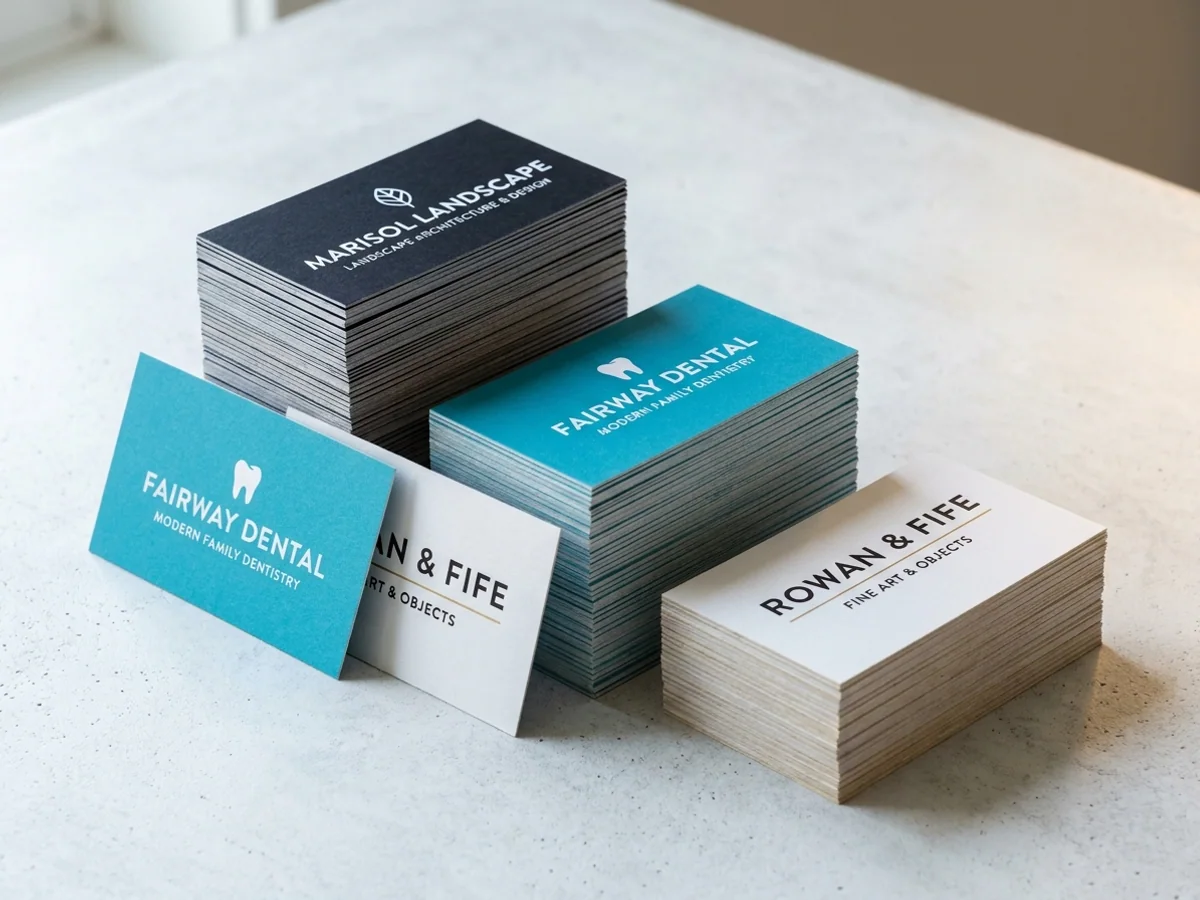
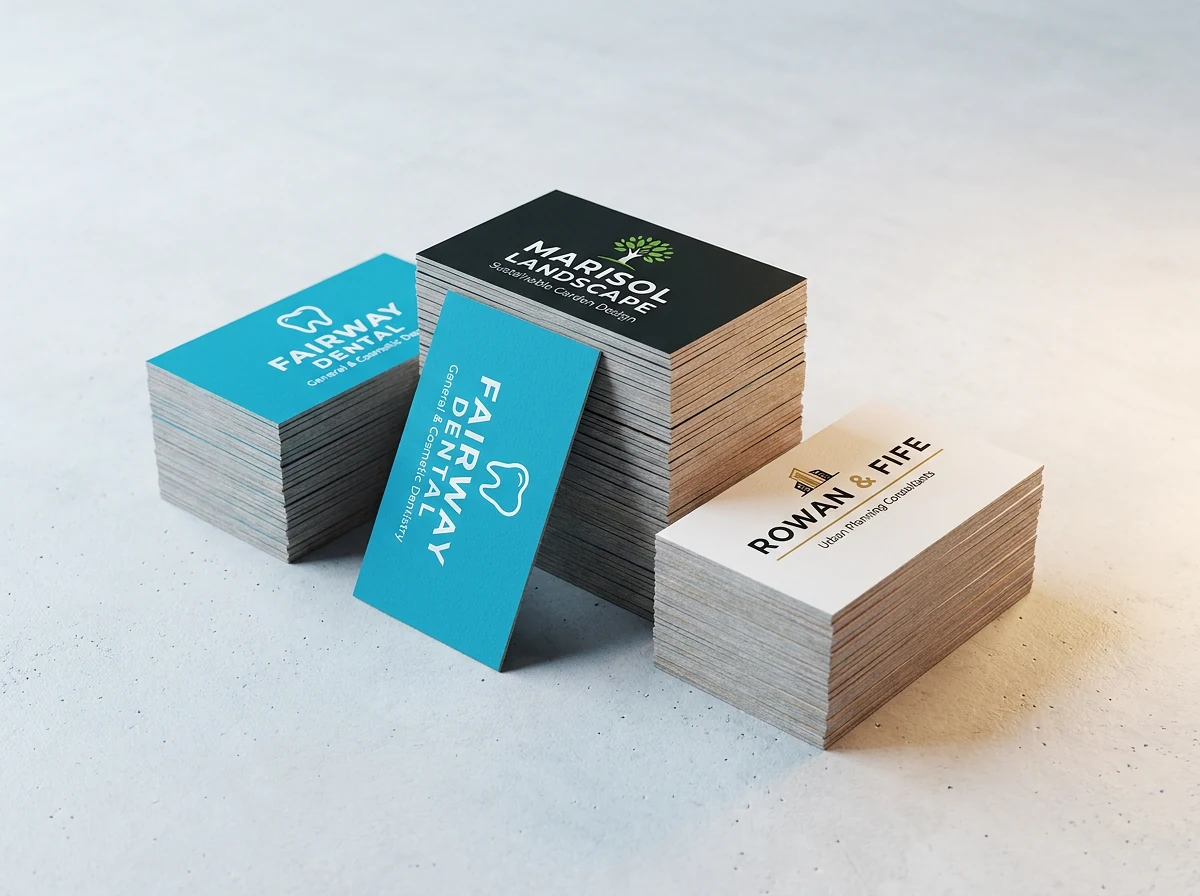
Fix blurry, over-zoomed product photography
The business-card photo on the service pages read as heavily zoomed and soft.
Two separate causes.

Composition: the previous shoot framed each subject tight, filling the frame.
The hero panel is a near-square crop of a 4:3 photo, so it cut roughly 12% off
each side of an already-tight subject and cropped further into it. Re-shot all
five product photos with a deliberately loose composition - subject centred at
about 60% of the frame with real empty surface on all four sides - so a centre
crop still contains the whole subject with room around it.

Resolution: the export was upscaling. hero-card-fan was resized 1.33x above its
source and proof-desk 1.40x, so the browser was then asked to scale an already
soft asset again. Everything now exports at native resolution with
withoutEnlargement, lanczos3, a light unsharp mask, and quality 88. The model
caps at 1200px regardless of the 2K/4K image_size flag, so native is the ceiling.

Geometry: the hero panels were tall enough to force a near-square crop of a
landscape frame, which is what produced the zoom and pushed the required device
width past the source. Hero heights are reduced (600 -> 520 homepage, 540 -> 500
service pages) and the panels capped (max-w 720 / 680) so the panel stays close
to the photograph's native 4:3 at every viewport, and `sizes` now reflects the
cap. Measured at DPR 2 on a 1440 viewport this takes the browser-side scale from
1.21x to 1.12x, on top of the sharpening.
[…]

diff --git a/app/(public)/page.tsx b/app/(public)/page.tsx
@@ -114,7 +114,7 @@ export default async function HomePage() {
         {/* z-20 keeps the bar above the bleed photo, which is anchored to the section's top edge */}
         <div className="reg-bar relative z-20" />
 
-        <div className="container-tight flex items-center px-4 pb-4 pt-14 sm:px-6 lg:min-h-[600px] lg:px-8 lg:py-16">
+        <div className="container-tight flex items-center px-4 pb-4 pt-14 sm:px-6 lg:min-h-[520px] lg:px-8 lg:py-16">
           <div className="lg:max-w-[52%]">
             <Reveal y={16}>
               <h1 className="display-tight text-[2.75rem] text-kc-dark sm:text-6xl lg:text-[3.5rem] xl:text-[4.25rem]">
@@ -145,14 +145,17 @@ export default async function HomePage() {
         </div>
 
         {/* One <Image>: an inline block on mobile, a full-height bleed panel from lg up. */}
-        <div className="px-4 pb-16 pt-10 sm:px-6 lg:absolute lg:bottom-0 lg:right-0 lg:top-[3px] lg:w-[46%] lg:p-0">
+        {/* The panel is capped and the hero kept short so this stays near the photograph's native 4:3.
+            A taller panel crops a landscape frame into a near-square, which reads as a zoom and
+            forces the browser to upscale a 1200px source. */}
+        <div className="px-4 pb-16 pt-10 sm:px-6 lg:absolute lg:bottom-0 lg:right-0 lg:top-[3px] lg:w-[46%] lg:max-w-[720px] lg:p-0">
           <div className="edge relative aspect-[4/3] w-full overflow-hidden lg:aspect-auto lg:h-full lg:rounded-none">
             <Image
               src="/images/print/hero-card-fan.webp"
               alt="A fanned spread of printed business cards in cyan, magenta, gold, and black showing their layered cut edges"
               fill
               priority
-              sizes="(min-width: 1024px) 46vw, 100vw"
+              sizes="(min-width: 1600px) 720px, (min-width: 1024px) 46vw, 100vw"
               className="object-cover"
             />
           </div>

diff --git a/components/sections/ServicePageContent.tsx b/components/sections/ServicePageContent.tsx
@@ -58,7 +58,7 @@ export function ServicePageContent({
       <section className="relative bg-kc-bg">
         <div className="reg-bar relative z-20" />
 
-        <div className="container-tight flex items-center px-4 pb-4 pt-14 sm:px-6 lg:min-h-[540px] lg:px-8 lg:py-16">
+        <div className="container-tight flex items-center px-4 pb-4 pt-14 sm:px-6 lg:min-h-[500px] lg:px-8 lg:py-16">
           <div className="lg:max-w-[52%]">
             <Reveal y={16}>
               <h1 className="display-tight text-[2.75rem] text-kc-dark sm:text-6xl lg:text-[3.5rem]">
@@ -100,14 +100,15 @@ export function ServicePageContent({
           </div>
         </div>
 
-        <div className="px-4 pb-16 pt-10 sm:px-6 lg:absolute lg:bottom-0 lg:right-0 lg:top-[3px] lg:w-[44%] lg:p-0">
+        {/* Capped and kept short so the panel stays near the photograph's native 4:3 ratio. */}
+        <div className="px-4 pb-16 pt-10 sm:px-6 lg:absolute lg:bottom-0 lg:right-0 lg:top-[3px] lg:w-[44%] lg:max-w-[680px] lg:p-0">
           <div className="edge relative aspect-[4/3] w-full overflow-hidden lg:aspect-auto lg:h-full lg:rounded-none">
             <Image
               src={photo.src}
               alt={photo.alt}
               fill
               priority
-              sizes="(min-width: 1024px) 44vw, 100vw"
+              sizes="(min-width: 1600px) 680px, (min-width: 1024px) 44vw, 100vw"
               className="object-cover"
             />
           </div>
